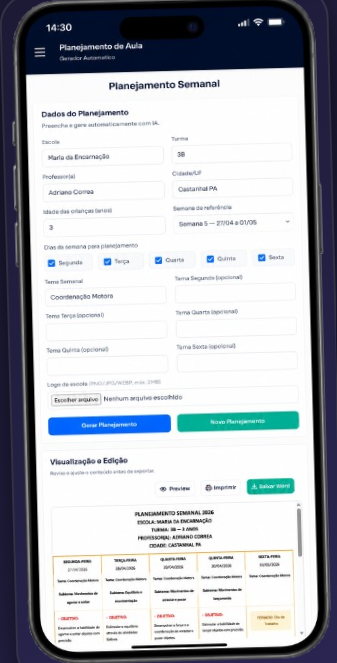
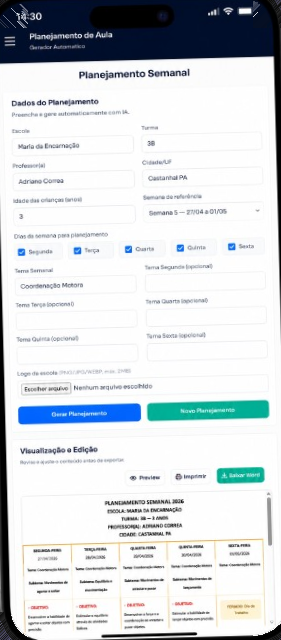
Remove the phone bezel from the Planejamento Semanal portfolio shot.

diff --git a/index.html b/index.html
@@ -276,7 +276,7 @@
                           <div class="mxd-project-item__preview preview-image-plan">
                             <div class="lws-project-shot">
                               <a href="https://www.planejamentosemanal.com.br/" target="_blank" rel="noopener">
-                                <img src="imagens/portfolio/planejamento-semanal.png" alt="Planejamento Semanal">
+                                <img src="imagens/portfolio/planejamento-semanal.png?v=2" alt="Planejamento Semanal">
                               </a>
                             </div>
                             <div class="lws-project-desc">
